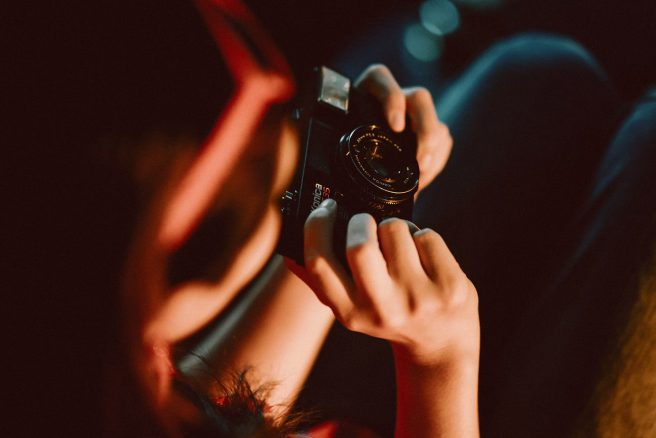
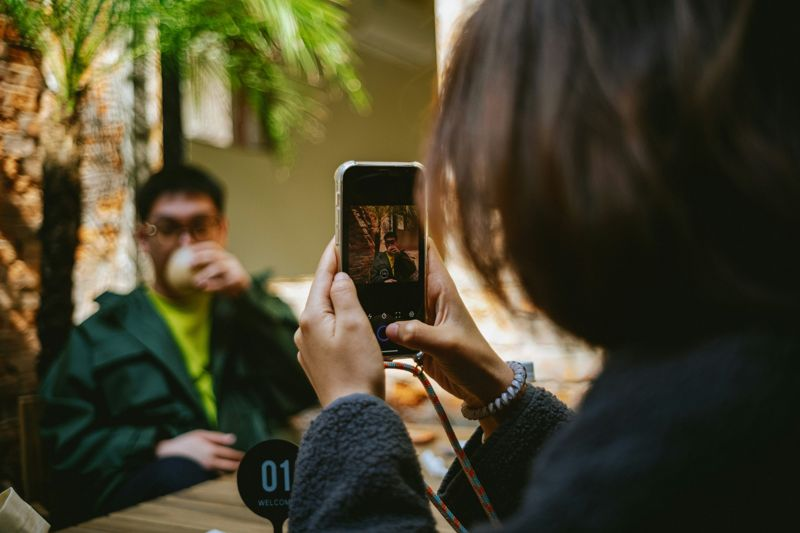
Startsidan: ny rubrik och egna bilder på kommande workshoppar
Claude-Session: https://claude.ai/code/session_01SJMY8ZX4c2XYz8gvwaiiSp

diff --git a/src/routes/index.jsx b/src/routes/index.jsx
@@ -68,7 +68,7 @@ function Startsida() {
         <div className="start-workshoppar__huvud">
           <div>
             <p className="label">Workshoppar</p>
-            <h2 id="workshoppar-rubrik">Välj din nästa fotodag</h2>
+            <h2 id="workshoppar-rubrik">Fotografera mer. Lär dig mer.</h2>
           </div>
           {/* Sidan med alla workshoppar finns inte än, länken är med som en del av designen */}
           <a href="#alla-workshoppar" className="text-link" onClick={(e) => e.preventDefault()}>
@@ -89,7 +89,7 @@ function Startsida() {
           {/* Påhittade kommande workshoppar, med i designen för att visa hur sidan kan växa */}
           {[
             ['Porträtt i naturligt ljus', '/bilder/portratt.jpg'],
-            ['Svartvitt på gatan', '/bilder/svartvitt.jpg'],
+            ['Gatufotografi', '/bilder/gatufoto.jpg'],
           ].map(([titel, bild]) => (
             <li key={titel}>
               <article className="ws-kort ws-kort--kommande">

diff --git a/src/components/Start.css b/src/components/Start.css
@@ -131,7 +131,6 @@
 .ws-kort__bricka--bokbar { background: var(--lavender-haze); color: var(--text-primary); }
 a.ws-kort:hover .ws-kort__titel { color: var(--text-link); }
 a.ws-kort:hover img { transform: scale(1.03); }
-.ws-kort--kommande img { filter: saturate(0.7); }
 /* Mobil: korten i en rad som sveps i sidled, nästa kort sticker fram i kanten */
 @media (max-width: 599px) {
   .start-workshoppar__lista {
